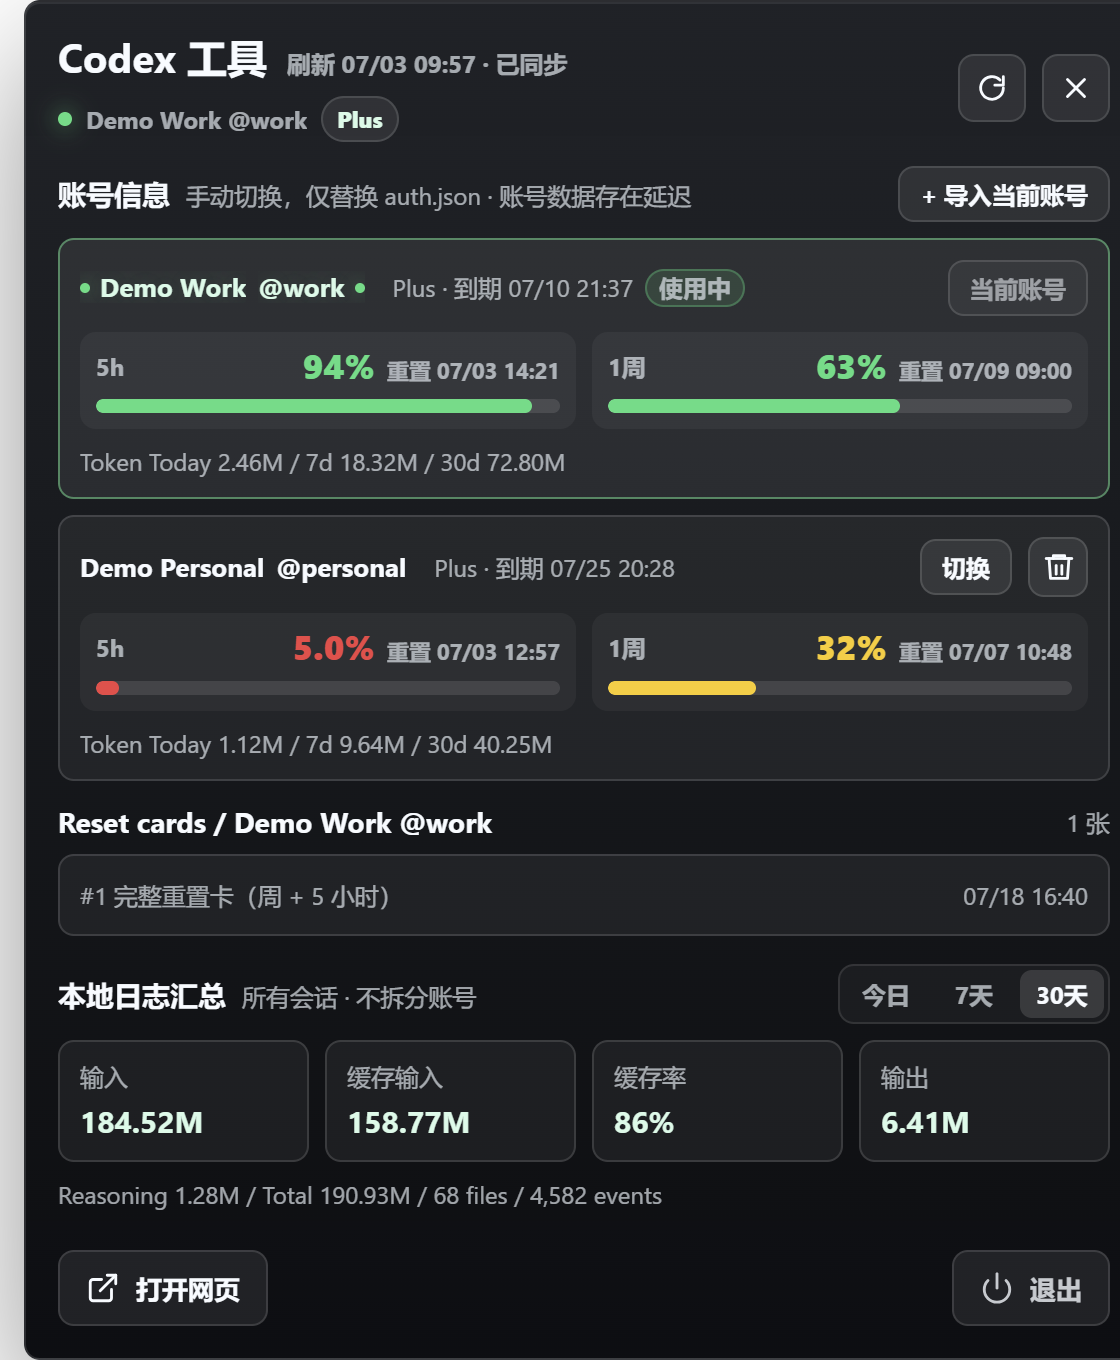
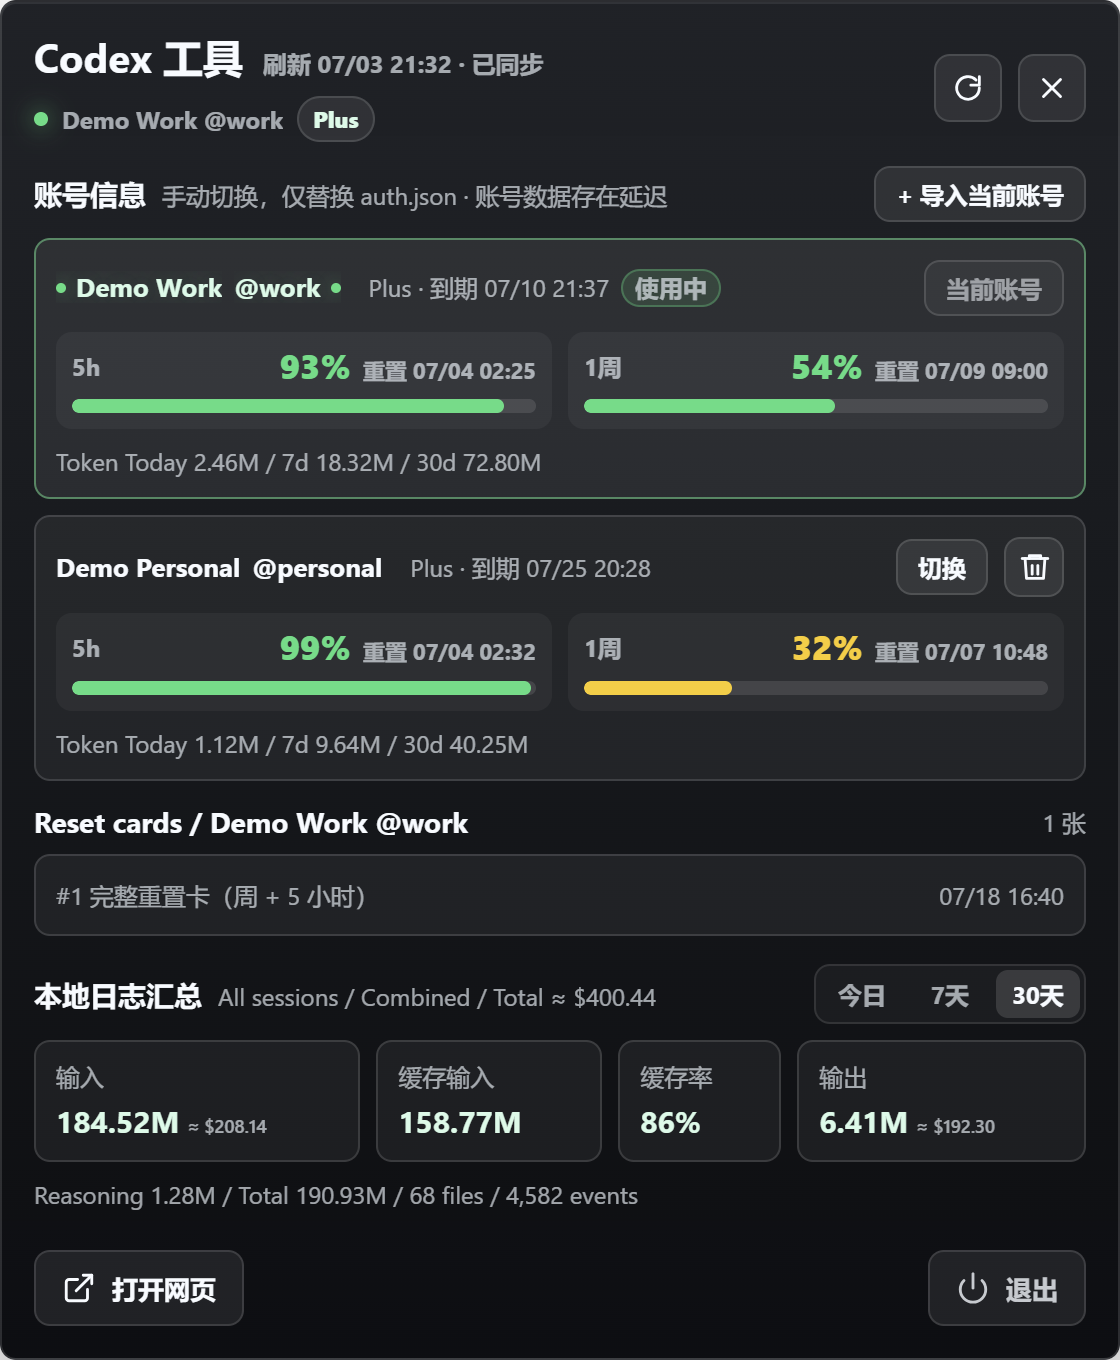
新增 GPT-5.5 本地 Token 费用估算

diff --git a/src/renderer/app.js b/src/renderer/app.js
@@ -31,10 +31,13 @@ const els = {
   resetCardsTitle: document.getElementById('resetCardsTitle'),
   cardCountText: document.getElementById('cardCountText'),
   resetCards: document.getElementById('resetCards'),
+  localSummarySubtitle: document.getElementById('localSummarySubtitle'),
   localInputTokens: document.getElementById('localInputTokens'),
   localCachedTokens: document.getElementById('localCachedTokens'),
   localCacheRate: document.getElementById('localCacheRate'),
   localOutputTokens: document.getElementById('localOutputTokens'),
+  localInputCost: document.getElementById('localInputCost'),
+  localOutputCost: document.getElementById('localOutputCost'),
   localTokenMeta: document.getElementById('localTokenMeta'),
   confirmDialog: document.getElementById('confirmDialog'),
   confirmTitle: document.getElementById('confirmTitle'),
@@ -42,6 +45,12 @@ const els = {
   cancelSwitchButton: document.getElementById('cancelSwitchButton'),
   confirmSwitchButton: document.getElementById('confirmSwitchButton')
 };
+
+const GPT_5_5_STANDARD_PRICE_PER_MILLION = Object.freeze({
+  input: 5,
+  cachedInput: 0.5,
+  output: 30
+});
 
 function clamp(value, min, max) {
   return Math.max(min, Math.min(max, value));
@@ -78,6 +87,33 @@ function formatTokens(value) {
   if (number >= 1000000) return `${(number / 1000000).toFixed(2)}M`;
   if (number >= 1000) return `${(number / 1000).toFixed(1)}K`;
   return formatNumber(number);
+}
+
+function formatUsdEstimate(value) {
+  const number = Number(value);
+  if (!Number.isFinite(number)) return '--';
+  const fractionDigits = number === 0 ? 2 : number < 0.01 ? 4 : number < 1 ? 3 : 2;
+  const amount = new Intl.NumberFormat('en-US', {
+    style: 'currency',
+    currency: 'USD',
+    minimumFractionDigits: fractionDigits,
+    maximumFractionDigits: fractionDigits
+  }).format(number);
+  return `≈ ${amount}`;
+}
+
+function estimateGpt55Cost(window) {
+  if (!window) return null;
+  const inputTokens = Math.max(0, Number(window.inputTokens) || 0);
+  const cachedInputTokens = Math.min(inputTokens, Math.max(0, Number(window.cachedInputTokens) || 0));
+  const outputTokens = Math.max(0, Number(window.outputTokens) || 0);
+  const uncachedInputTokens = Math.max(0, inputTokens - cachedInputTokens);
+  const input = (
+    uncachedInputTokens * GPT_5_5_STANDARD_PRICE_PER_MILLION.input +
+    cachedInputTokens * GPT_5_5_STANDARD_PRICE_PER_MILLION.cachedInput
+  ) / 1000000;
+  const output = outputTokens * GPT_5_5_STANDARD_PRICE_PER_MILLION.output / 1000000;
+  return { input, output, total: input + output };
 }
 
 function formatMinute(value) {
@@ -282,10 +318,14 @@ function localWindow(summary) {
 
 function renderLocalSummary(summary) {
   const current = localWindow(summary);
+  const cost = estimateGpt55Cost(current);
   els.localInputTokens.textContent = formatTokens(current?.inputTokens);
   els.localCachedTokens.textContent = formatTokens(current?.cachedInputTokens);
   els.localCacheRate.textContent = Number.isFinite(Number(current?.cacheRate)) ? formatPercent(current.cacheRate) : '--';
   els.localOutputTokens.textContent = formatTokens(current?.outputTokens);
+  els.localInputCost.textContent = formatUsdEstimate(cost?.input);
+  els.localOutputCost.textContent = formatUsdEstimate(cost?.output);
+  els.localSummarySubtitle.textContent = `所有会话 · 不拆分账号 · 总计 ${formatUsdEstimate(cost?.total)}`;
   els.localTokenMeta.textContent = [
     `推理输出 ${formatTokens(current?.reasoningOutputTokens)}`,
     `总计 ${formatTokens(current?.totalTokens)}`,

diff --git a/src/renderer/styles.css b/src/renderer/styles.css
@@ -654,13 +654,29 @@ svg {
 
 .local-grid {
   display: grid;
-  grid-template-columns: repeat(4, minmax(0, 1fr));
+  grid-template-columns: 1.3fr 0.9fr 0.65fr 1.15fr;
   gap: 8px;
 }
 
 .local-grid div {
   min-width: 0;
   padding: 9px 10px;
+}
+
+.token-cost-value {
+  display: flex;
+  align-items: baseline;
+  gap: 4px;
+  white-space: nowrap;
+}
+
+.token-cost-value small {
+  min-width: 0;
+  overflow: hidden;
+  color: var(--muted);
+  font-size: 9px;
+  font-weight: 620;
+  text-overflow: ellipsis;
 }
 
 dt {

diff --git a/src/renderer/index.html b/src/renderer/index.html
@@ -69,7 +69,7 @@
             <div class="section-title">
               <div class="local-title-inline">
                 <h2>本地日志汇总</h2>
-                <span>所有会话 · 不拆分账号</span>
+                <span id="localSummarySubtitle">所有会话 · 不拆分账号 · 总计 --</span>
               </div>
               <div class="segmented" role="tablist" aria-label="本地日志时间范围">
                 <button data-local-range="today" class="is-active">今日</button>
@@ -80,7 +80,7 @@
             <dl class="local-grid">
               <div>
                 <dt>输入</dt>
-                <dd id="localInputTokens">--</dd>
+                <dd class="token-cost-value"><span id="localInputTokens">--</span><small id="localInputCost">--</small></dd>
               </div>
               <div>
                 <dt>缓存输入</dt>
@@ -92,7 +92,7 @@
               </div>
               <div>
                 <dt>输出</dt>
-                <dd id="localOutputTokens">--</dd>
+                <dd class="token-cost-value"><span id="localOutputTokens">--</span><small id="localOutputCost">--</small></dd>
               </div>
             </dl>
             <p id="localTokenMeta" class="meta-line">--</p>

diff --git a/README.md b/README.md
@@ -47,7 +47,7 @@
 - **多账号看板**：同时查看已导入账号的显示昵称、用户名、会员等级、会员到期时间、5 小时额度和 1 周额度。
 - **手动账号切换**：经过确认后，用目标账号快照原子替换 `~/.codex/auth.json`；不修改 `CODEX_HOME` 和 `config.toml`，也不会自动轮换账号。
 - **账号 Token 概览**：每个账号展示今日、7 天和 30 天总 Token。该数据来自账号接口，可能存在同步延迟。
-- **本地日志汇总**：按今日、7 天和 30 天切换查看输入、缓存输入、缓存率、输出、推理输出、总计、文件数和 `token_count` 事件数。
+- **本地日志汇总**：按今日、7 天和 30 天切换查看输入、缓存输入、缓存率、输出、推理输出、总计、文件数和 `token_count` 事件数，并按 GPT-5.5 标准 API 费率估算输入、输出及总费用。
 - **重置卡列表**：显示当前账号的可用完整重置卡、适用窗口和预计有效期；超过 2 张时列表内部滚动。
 - **自适应面板**：面板高度随内容变化，底部操作区保持独立，不与日志信息重叠。
 - **便携打包**：使用 `electron-builder` 生成 Windows portable EXE，无需安装程序。
@@ -126,6 +126,19 @@ npm run dev
 | 总计 | `total_tokens` |
 
 本地日志汇总固定统计所有会话，不拆分账号。多个账号共用同一个 `~/.codex` 时，本地历史文件通常缺少可靠账号标识，因此不应将这部分数据解释为某个账号的精确账单。
+
+### GPT-5.5 费用估算
+
+费用估算采用 [OpenAI GPT-5.5 官方标准 API 价格](https://developers.openai.com/api/docs/models/gpt-5.5)，每 100 万 Token 的输入、缓存输入、输出价格分别为 `$5.00`、`$0.50`、`$30.00`：
+
+```text
+输入费用 = (输入 - 缓存输入) / 1,000,000 × $5.00
+         + 缓存输入 / 1,000,000 × $0.50
+输出费用 = 输出 / 1,000,000 × $30.00
+总计费用 = 输入费用 + 输出费用
+```
+
+推理输出属于输出统计的一部分，不重复计费。该金额仅用于把本地 Token 用量换算成标准 API 价格的近似参考，并非 ChatGPT / Codex 订阅账单。单次请求输入超过 272K Token 时，GPT-5.5 标准费率会对整个会话采用 2 倍输入价和 1.5 倍输出价；本地汇总缺少可靠的逐请求上下文长度，因此暂不计算这类加价，也不包含 Fast、Priority、Batch、Flex 或数据区域费率差异。
 
 ## 颜色规则
 
@@ -208,6 +221,7 @@ docs/screenshots/        README 示例截图
 - Codex / ChatGPT 内部接口并非稳定公开契约，字段或访问规则变化可能导致部分信息暂时不可用。
 - 账号 Token 接口可能延迟，且通常只有总量；输入、输出、缓存输入拆分主要来自本地日志。
 - 本地日志无法可靠拆分共享 `~/.codex` 的多个账号。
+- GPT-5.5 费用只按标准 API 基础费率估算，不能替代实际 API 或订阅账单。
 - 替换 `auth.json` 不会刷新已运行进程的内存认证状态，账号切换后通常需要重启 Codex。
 - EXE 默认未进行代码签名，Windows SmartScreen 可能显示未知发布者提示。
 